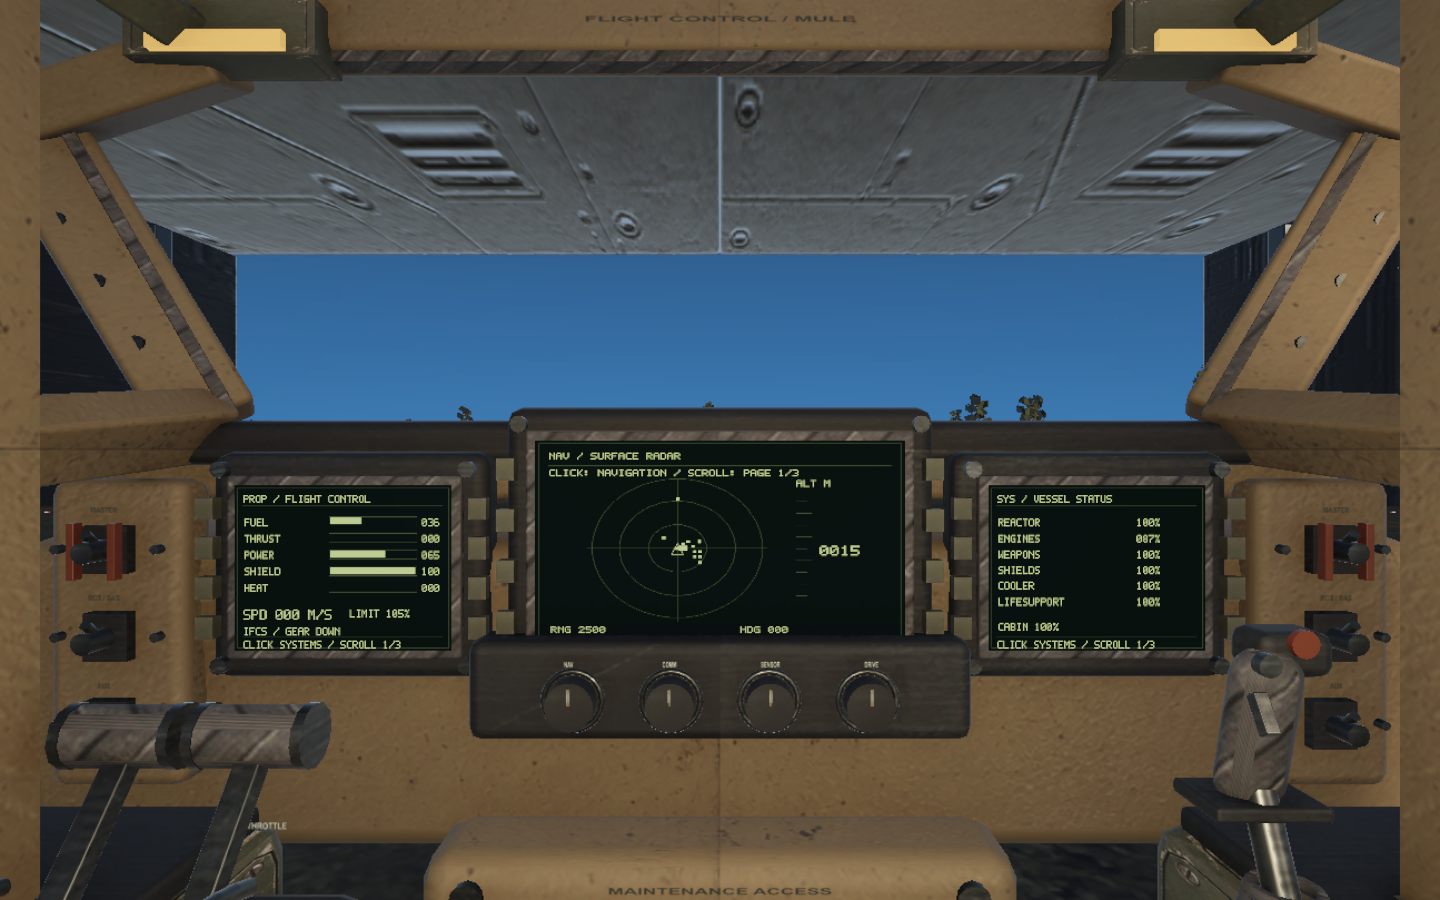
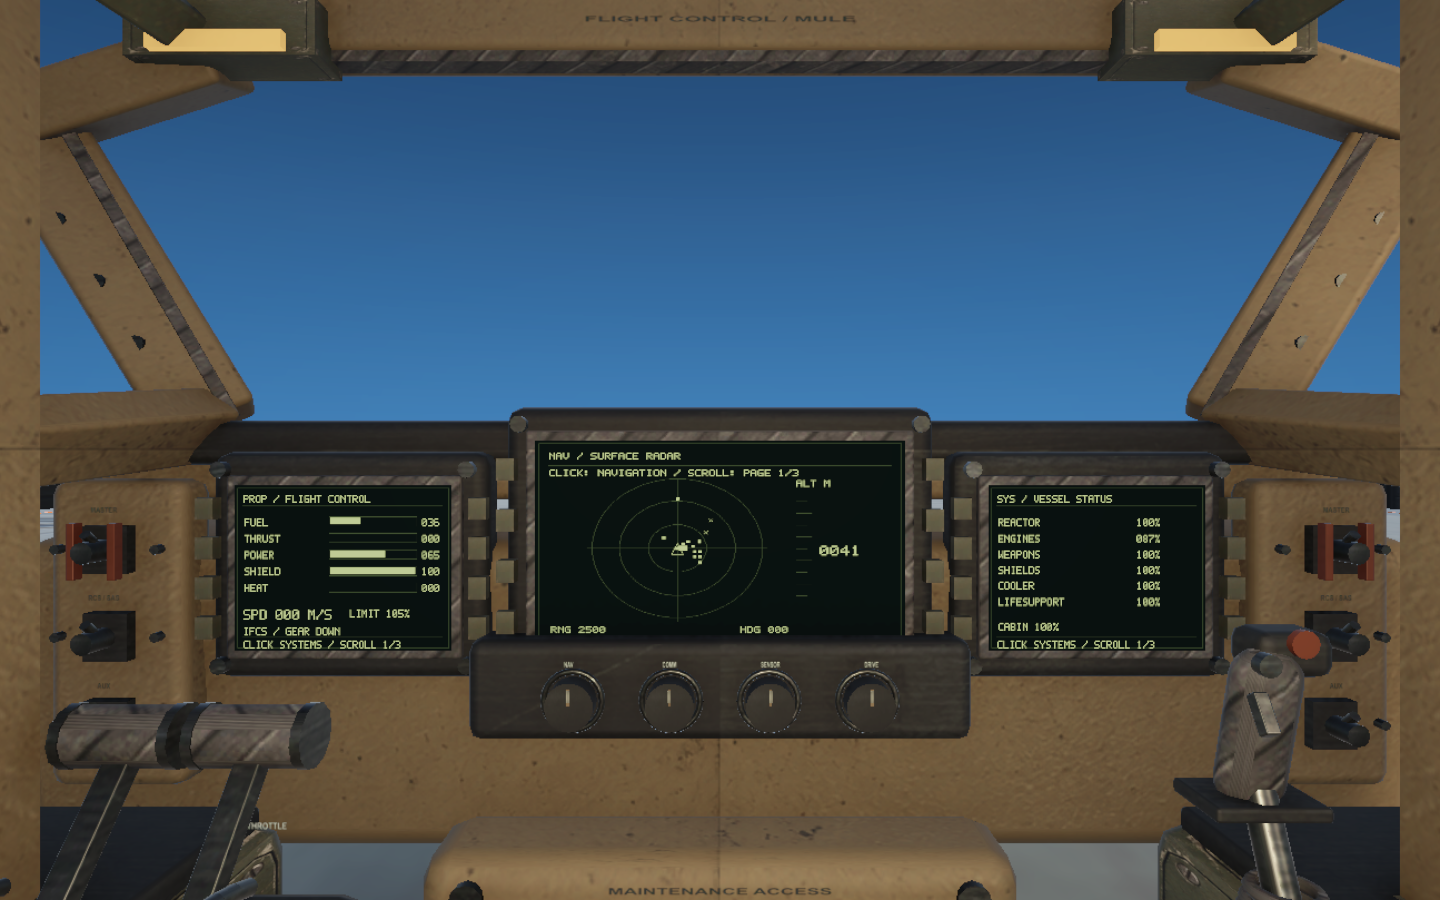
Correct Tripo axis and bake targets; document creature rejection
Normalize generated Y-up GLB geometry before Blender review, select each bake target explicitly, and preserve symmetry-checked concept views. Document why the one-view mesh cannot enter the game. Confirm the cockpit overhead is the functioning Port 07 roof and capture controls with it open.

diff --git a/Tools/AssetPipeline/creatures/prepare_tripo_asset.py b/Tools/AssetPipeline/creatures/prepare_tripo_asset.py
@@ -2,9 +2,10 @@
 
 Run: blender --background --python prepare_tripo_asset.py -- input.glb output_dir stable-id fauna 2.0 +x
 Arguments: source, output directory, stable ID, category (weapon/flora/fauna/geology), target height in metres,
-           source forward axis (+x, -x, +y, -y, +z, -z).
+           source horizontal forward axis (+x, -x, +z, -z), optional pivot fraction and #RRGGBB fallback color.
+Source asset convention: +Y up. Blender's importer converts it to +Z up; the normalizer restores +Y up.
 """
-import bpy, json, math, os, sys
+import bpy, json, math, os, re, sys
 from mathutils import Vector, Quaternion, Matrix
 
 args=sys.argv[sys.argv.index('--')+1:] if '--' in sys.argv else []
@@ -14,6 +15,12 @@ if category not in ('weapon','flora','fauna','geology'):raise SystemExit('Catego
 target_height=float(args[4]) if len(args)>4 else 2.0
 source_forward=args[5] if len(args)>5 else '+x'
 pivot_fraction=tuple(float(v) for v in args[6].split(',')) if len(args)>6 else ((.5,.28,.62) if category=='weapon' else (.5,0,.5))
+source_color_hex=args[7] if len(args)>7 else '#827d6e'
+if not re.fullmatch(r'#[0-9a-fA-F]{6}',source_color_hex):raise SystemExit('Base color must be #RRGGBB.')
+def srgb_to_linear(channel):
+    value=channel/255
+    return value/12.92 if value<=.04045 else ((value+.055)/1.055)**2.4
+source_color=tuple(srgb_to_linear(int(source_color_hex[i:i+2],16)) for i in (1,3,5))
 if len(pivot_fraction)!=3 or any(v<0 or v>1 for v in pivot_fraction):raise SystemExit('Pivot fractions must be three values in [0,1].')
 source=os.path.abspath(source);out_dir=os.path.abspath(out_dir)
 if not os.path.isfile(source): raise SystemExit('Input model not found: '+source)
@@ -37,9 +44,15 @@ if not meshes:raise SystemExit('Input contains no mesh objects.')
 root=bpy.data.objects.new(species+' / normalized import',None);bpy.context.scene.collection.objects.link(root)
 for obj in objects:
     world=obj.matrix_world.copy();obj.parent=root;obj.matrix_parent_inverse=root.matrix_world.inverted();obj.matrix_world=world
-axis={' +x':(1,0,0),'+x':(1,0,0),'-x':(-1,0,0),'+y':(0,1,0),'-y':(0,-1,0),'+z':(0,0,1),'-z':(0,0,-1)}
-if source_forward not in axis:raise SystemExit('Forward axis must be +x, -x, +y, -y, +z or -z.')
-direction=Vector(axis[source_forward]);root.rotation_mode='QUATERNION';root.rotation_quaternion=direction.rotation_difference(Vector((0,0,1)))
+axis={'+x':(1,0,0),'-x':(-1,0,0),'+z':(0,0,1),'-z':(0,0,-1)}
+if source_forward not in axis:raise SystemExit('For +Y-up source models, forward axis must be horizontal: +x, -x, +z or -z.')
+# glTF/FBX sources use +Y up; Blender imports them into its +Z-up world.
+# Restore the source's upright basis *before* yawing its horizontal forward
+# into the game's +Z. The old yaw-only transform stood this creature on its
+# nose because its imported Blender Y axis was actually its source depth.
+upright=Quaternion((1,0,0),-math.pi/2)
+direction=Vector(axis[source_forward]);root.rotation_mode='QUATERNION'
+root.rotation_quaternion=direction.rotation_difference(Vector((0,0,1))) @ upright
 bpy.context.view_layer.update()
 def bounds():
     points=[obj.matrix_world@Vector(corner) for obj in meshes for corner in obj.bound_box]
@@ -47,10 +60,24 @@ def bounds():
     return lo,hi
 lo,hi=bounds();height=max(.001,hi.y-lo.y);root.scale=Vector((target_height/height,)*3);bpy.context.view_layer.update();lo,hi=bounds();extent=hi-lo;pivot=Vector((lo.x+extent.x*pivot_fraction[0],lo.y+extent.y*pivot_fraction[1],lo.z+extent.z*pivot_fraction[2]));root.location=-pivot;bpy.context.view_layer.update()
 for obj in objects:obj.name=species+' / '+obj.name[:48]
+untextured_objects=[]
+for obj in meshes:
+    if any(mat is not None for mat in obj.data.materials):continue
+    # Local TripoSG generates geometry only. Give it an explicit neutral source
+    # material so the Blender bake is real and reports no invented detail.
+    material=bpy.data.materials.new(species+' / untextured source')
+    material.use_nodes=True
+    bsdf=material.node_tree.nodes.get('Principled BSDF')
+    bsdf.inputs['Base Color'].default_value=(*source_color,1)
+    bsdf.inputs['Roughness'].default_value=.78
+    obj.data.materials.clear()
+    obj.data.materials.append(material)
+    untextured_objects.append(obj.name)
 for obj in meshes:
     if len(obj.data.uv_layers)==0:obj.data.uv_layers.new(name='UVMap_Source')
     uv=obj.data.uv_layers.get('SP_BakeUV') or obj.data.uv_layers.new(name='SP_BakeUV')
     obj.data.uv_layers.active=uv
+    uv.active_render=True
 
 # Unwrap all visible meshes in multi-object edit mode, then globally repack to
 # remove Tripo UV overlap. The view cameras below never define texture UVs.
@@ -67,7 +94,11 @@ scene.render.image_settings.file_format='PNG';scene.render.film_transparent=Fals
 for obj in bpy.context.selected_objects:obj.select_set(False)
 # Existing imported materials/textures become one stable base-color bake.
 def bake_image(name,size=2048):
-    im=bpy.data.images.new(name,width=size,height=size,alpha=True,float_buffer=False);im.generated_type='BLANK';im.generated_color=(0,0,0,0);im.filepath_raw=os.path.join(bakes,name+'.png');im.file_format='PNG';return im
+    im=bpy.data.images.new(name,width=size,height=size,alpha=True,float_buffer=False);im.generated_type='BLANK'
+    # Cycles' normal/AO bake writes RGB but retains a generated image's alpha.
+    # Transparent initialization made those saved maps completely invisible.
+    im.generated_color={'basecolor':(0,0,0,0),'normal-tangent':(.5,.5,1,1),'ambient-occlusion':(1,1,1,1)}[name]
+    im.filepath_raw=os.path.join(bakes,name+'.png');im.file_format='PNG';return im
 images={name:bake_image(name) for name in ('basecolor','normal-tangent','ambient-occlusion')}
 def set_bake_target(img):
     for obj in meshes:
@@ -82,8 +113,12 @@ def set_bake_target(img):
     bpy.context.view_layer.objects.active=meshes[0]
 scene.render.bake.margin=16;scene.render.bake.use_pass_direct=False;scene.render.bake.use_pass_indirect=False;scene.render.bake.use_pass_color=True
 set_bake_target(images['basecolor']);scene.cycles.bake_type='DIFFUSE';bpy.ops.object.bake(type='DIFFUSE',pass_filter={'COLOR'})
-images['basecolor'].save();scene.cycles.bake_type='NORMAL';bpy.ops.object.bake(type='NORMAL',normal_space='TANGENT');images['normal-tangent'].save()
-scene.cycles.bake_type='AO';bpy.ops.object.bake(type='AO');images['ambient-occlusion'].save()
+print('SP_BAKE_STATE basecolor',images['basecolor'].is_dirty,flush=True)
+images['basecolor'].save();set_bake_target(images['normal-tangent']);scene.cycles.bake_type='NORMAL';bpy.ops.object.bake(type='NORMAL',normal_space='TANGENT')
+print('SP_BAKE_STATE normal-tangent',images['normal-tangent'].is_dirty,flush=True)
+images['normal-tangent'].save();set_bake_target(images['ambient-occlusion']);scene.cycles.bake_type='AO';bpy.ops.object.bake(type='AO')
+print('SP_BAKE_STATE ambient-occlusion',images['ambient-occlusion'].is_dirty,flush=True)
+images['ambient-occlusion'].save()
 for img in images.values():img.pack()
 # Bind the baked base color and tangent normal to the exported Unity material;
 # AO remains a separate map and is listed explicitly in the layout manifest.
@@ -104,13 +139,20 @@ def aim(obj,target):obj.rotation_euler=(Vector(target)-obj.location).to_track_qu
 for name,loc,up in [('key',(5,7,7),(0,0,1)),('fill',(-6,4,2),(0,0,1)),('rim',(2,5,-6),(0,0,1))]:
     ld=bpy.data.lights.new(name,'AREA');ld.energy=1250 if name=='key' else 780;ld.shape='DISK';ld.size=5;lo_obj=bpy.data.objects.new(name,ld);scene.collection.objects.link(lo_obj);lo_obj.location=loc;aim(lo_obj,(0,target_height*.48,0))
 if category in ('flora','fauna','geology'):
-    bpy.ops.mesh.primitive_plane_add(size=max(24,target_height*12),location=(0,.006,0));floor=bpy.context.object;floor.name='SP review-only neutral ground';floor_mat=bpy.data.materials.new('SP review ground');floor_mat.diffuse_color=(.16,.18,.18,1);floor_mat.use_nodes=True;floor_mat.node_tree.nodes['Principled BSDF'].inputs['Base Color'].default_value=(.16,.18,.18,1);floor_mat.node_tree.nodes['Principled BSDF'].inputs['Roughness'].default_value=.88;floor.data.materials.append(floor_mat)
+    bpy.ops.mesh.primitive_plane_add(size=max(24,target_height*12),location=(0,-.006,0),rotation=(-math.pi/2,0,0));floor=bpy.context.object;floor.name='SP review-only neutral ground';floor_mat=bpy.data.materials.new('SP review ground');floor_mat.diffuse_color=(.16,.18,.18,1);floor_mat.use_nodes=True;floor_mat.node_tree.nodes['Principled BSDF'].inputs['Base Color'].default_value=(.16,.18,.18,1);floor_mat.node_tree.nodes['Principled BSDF'].inputs['Roughness'].default_value=.88;floor.data.materials.append(floor_mat)
 cam_data=bpy.data.cameras.new('SP orthographic review');cam=bpy.data.objects.new('SP orthographic review',cam_data);scene.collection.objects.link(cam);scene.camera=cam;cam_data.type='ORTHO';cam_data.ortho_scale=max(target_height*1.5,3)
 view_specs={'front':((0,.5,8),(0,1,0)),'back':((0,.5,-8),(0,1,0)),'left':((-8,.5,0),(0,1,0)),'right':((8,.5,0),(0,1,0)),'top':((0,8,0),(0,0,1)),'three-quarter':((6,4.2,7),(0,1,0))}
 view_report={}
 for name,(pos,up) in view_specs.items():
-    cam.location=Vector(pos)*max(1,target_height/2);cam.data.ortho_scale=max(target_height*1.35,2.5);cam.data.lens=52;cam.data.dof.use_dof=False
-    cam.rotation_euler=(Vector((0,target_height*.5,0))-cam.location).to_track_quat('-Z','Y').to_euler();scene.render.filepath=os.path.join(review,name+'.png');bpy.ops.render.render(write_still=True)
+    target=Vector((0,target_height*.5,0));cam.location=target+(Vector(pos)-Vector((0,.5,0)))*max(1,target_height/2);cam.data.lens=52;cam.data.dof.use_dof=False
+    forward=(target-cam.location).normalized();right=forward.cross(Vector(up)).normalized();camera_up=right.cross(forward).normalized()
+    cam.rotation_euler=Matrix((right,camera_up,-forward)).transposed().to_quaternion().to_euler()
+    bpy.context.view_layer.update()
+    camera_corners=[cam.matrix_world.inverted()@(obj.matrix_world@Vector(corner)) for obj in meshes for corner in obj.bound_box]
+    width=max(p.x for p in camera_corners)-min(p.x for p in camera_corners)
+    height=max(p.y for p in camera_corners)-min(p.y for p in camera_corners)
+    cam.data.ortho_scale=max(width*1.15,height*1.15,2.5)
+    scene.render.filepath=os.path.join(review,name+'.png');bpy.ops.render.render(write_still=True)
     view_report[name]={'camera':[float(v) for v in cam.location],'target':[0,target_height*.5,0],'up':list(up),'projection':'orthographic'}
 
 # Record actual UV extents for review and bake reproducibility.
@@ -118,9 +160,16 @@ uv_report=[]
 for obj in meshes:
     layer=obj.data.uv_layers.get('SP_BakeUV');coords=[(float(d.uv.x),float(d.uv.y)) for d in layer.data] if layer else []
     uv_report.append({'object':obj.name,'mesh':obj.data.name,'uvMap':'SP_BakeUV','uvBounds':[min(x for x,y in coords),min(y for x,y in coords),max(x for x,y in coords),max(y for x,y in coords)] if coords else None,'vertices':len(obj.data.vertices),'triangles':sum(len(p.vertices)-2 for p in obj.data.polygons)})
-lo,hi=bounds();layout={'schema':'space-patriot-bake-layout','version':1,'assetId':species,'category':category,'source':os.path.basename(source),'units':'metres','origin':'pivot-point','pivotFraction':list(pivot_fraction),'up':'+Y','forward':'+Z','targetHeight':target_height,'viewCoordinates':view_report,'uvMap':'SP_BakeUV','resolution':2048,'paddingPixels':16,'uvCoordinatesAreIndependentOfViews':True,'images':{k:os.path.relpath(v.filepath_raw,out_dir).replace('\\','/') for k,v in images.items()},'objects':uv_report,'bounds':{'min':list(lo),'max':list(hi)}}
+lo,hi=bounds();layout={'schema':'space-patriot-bake-layout','version':1,'assetId':species,'category':category,'source':os.path.basename(source),'sourceUp':'+Y','sourceForward':source_forward,'blenderImportUp':'+Z','importToCanonical':'-90deg around Blender X, then horizontal yaw to +Z','units':'metres','origin':'pivot-point','pivotFraction':list(pivot_fraction),'up':'+Y','forward':'+Z','targetHeight':target_height,'viewCoordinates':view_report,'uvMap':'SP_BakeUV','resolution':2048,'paddingPixels':16,'uvCoordinatesAreIndependentOfViews':True,'images':{k:os.path.relpath(v.filepath_raw,out_dir).replace('\\','/') for k,v in images.items()},'objects':uv_report,'bounds':{'min':list(lo),'max':list(hi)},'untexturedSourceObjects':untextured_objects,'sourceBaseColor':source_color_hex,'sourceMaterialNote':'Untextured TripoSG geometry receives flat authored base color; baked color contains no concept-detail projection' if untextured_objects else 'Original imported source materials baked'}
 with open(os.path.join(out_dir,'bake-layout.json'),'w',encoding='utf-8') as f:json.dump(layout,f,indent=2)
 bpy.ops.wm.save_as_mainfile(filepath=os.path.join(out_dir,species+'.blend'))
+# Unity consumes the first exported UV layer as UV0. Keep the incoming UVs in
+# the editable .blend, then export only the validated bake map as UV0.
+for obj in meshes:
+    for layer in list(obj.data.uv_layers):
+        if layer.name!='SP_BakeUV':obj.data.uv_layers.remove(layer)
+    obj.data.uv_layers.active_index=0
+    obj.data.uv_layers[0].active_render=True
 bpy.ops.object.select_all(action='DESELECT')
 for obj in objects:obj.select_set(True)
 bpy.context.view_layer.objects.active=meshes[0]

diff --git a/ArtDirection/PIPELINE_STANDARD.md b/ArtDirection/PIPELINE_STANDARD.md
@@ -14,13 +14,13 @@ Put the returned `.glb` or `.fbx` beside the concept folder and run from the pro
 
 ```powershell
 blender --background --python Tools/AssetPipeline/creatures/prepare_tripo_asset.py -- `
-  ArtDirection/Production/Tripo/earth-wild-01.glb `
-  ArtDirection/Production/Tripo/earth-wild-01 earth-wild-01 fauna 2.0 +x
+  ArtDirection/Production/Tripo/earth-wild-01/raw.glb `
+  ArtDirection/Production/Tripo/earth-wild-01/prepared-review earth-wild-01 fauna 2.0 +x 0.5,0,0.5 '#687651'
 ```
 
-The arguments after `--` are source model, output folder, stable ID, category, target height in metres, and the model's source forward axis. The final optional argument sets the pivot as normalized `x,y,z` fractions inside the aligned model bounds. Omit it for ground-centred categories; weapons default to a grip/mount fraction and should be reviewed per model. For a weapon, pass its actual grip or mount point fraction after checking the six renders.
+The arguments after `--` are source model, output folder, stable ID, category, target height in metres, and the model's horizontal source-forward axis (`+x`, `-x`, `+z`, or `-z`). Source models use `+Y` up. Blender's glTF importer changes that to Blender `+Z` up, so the script restores `+Y` up before turning the forward axis to game `+Z`. Verify the source axis from model bounds and a side view; an incorrect axis can make all six bake reviews appear valid while standing the asset on its nose. The next optional argument sets the pivot as normalized `x,y,z` fractions inside aligned bounds. The last optional argument sets a flat sRGB `#RRGGBB` fallback color for untextured geometry; the script converts it to Blender linear input before baking, and it does not manufacture concept-art detail. Omit the pivot for ground-centred categories; weapons default to a grip/mount fraction and should be reviewed per model.
 
-The Blender run outputs a review render for each canonical view, `basecolor.png`, `normal-tangent.png`, `ambient-occlusion.png`, a `.blend` source file, a Unity-ready `.fbx`, and `bake-layout.json` with the final object bounds, camera transforms, UV bounds per mesh, atlas name, size, and padding. It preserves the source UV layer and writes the bake layout to a new UV layer, so the view grid and the bake coordinates stay independent. Bake margin is 16 pixels at 2048². Fix topology or UV failures in Blender, rerun, and compare the six matched reference views before import.
+The Blender run outputs a review render for each canonical view, `basecolor.png`, `normal-tangent.png`, `ambient-occlusion.png`, a `.blend` source file, an `.fbx` draft, and `bake-layout.json` with the final object bounds, axis conversion, camera transforms, UV bounds per mesh, atlas name, size, and padding. It preserves the source UV layer in Blender and exports only `SP_BakeUV` as UV0 for Unity. The view grid and bake coordinates stay independent. Bake margin is 16 pixels at 2048². Check the normal and AO PNG alpha as well as RGB; a bake command returning success does not prove that the saved map contains visible pixels. Fix topology or UV failures in Blender, rerun, and compare the six matched reference views before import.
 
 Compare approved views and Blender output with overlays and per-view pixel error:
 

diff --git a/ArtDirection/Production/Tripo/earth-wild-01/REVIEW.md b/ArtDirection/Production/Tripo/earth-wild-01/REVIEW.md
@@ -1,0 +1,18 @@
+# earth-wild-01 local mesh review — rejected draft
+
+The concept image `ArtDirection/Production/ConceptViews/earth-wild-01/left-master-v1.png` is a useful side-view brief. The one-view local TripoSG mesh in `raw.glb` is **not approved for Unity**. The art standard requires six approved, matching concept views; this trial began from only the left image.
+
+## Axis and bake correction
+
+The generated glTF has `+Y` up and `+X` forward. Blender's glTF importer changes it to Blender `+Z` up. The preparation script now restores `+Y` up before yawing `+X` forward to canonical `+Z`, and it puts the review floor in the canonical `XZ` plane. In `prepared-v5/bake-layout.json`, the corrected metres bounds are `X=[-0.561115, +0.561115]`, `Y=[0, 1.759299]`, `Z=[-1.131896, +1.131897]`. The six v5 orthographic views confirm an upright four-legged stance and forward-facing muzzle.
+
+The script now selects the intended image node separately for base-color, tangent-normal, and AO baking. In v6 all three bake calls dirty their own image. The saved AO atlas has 244 grayscale values in a 1/16-pixel-grid sample, compared with the previous all-white output. The tangent-normal atlas is uniformly neutral `(128,128,255)` because this untextured low-poly mesh was baked against itself; it contains no sculpted high-frequency detail. Base color is a declared flat `#687651` fallback, not texture projected from the concept. Its sRGB channels now bake to `(103,117,80)` on a covered atlas pixel, within one byte of the requested `(104,118,81)`; the previous linear-input mistake baked it too pale. The UV layer is newly packed as `SP_BakeUV` and exported as FBX UV0.
+
+## Why the draft is rejected
+
+- `raw.glb` contains 590,227 vertices and 1,180,116 triangles; it is not watertight and has 986 open boundary edges in Blender.
+- Reflection about the lateral centre plane gives a median nearest-vertex mismatch of **14.5% of body width**, with 95th percentile **32.3%**. Only **13.2%** of sampled vertices have a reflected partner within 3% of body width.
+- Using a light-foreground threshold of 150 on the saved 1024-pixel neutral-color v5 review PNGs, silhouette mirror IoU is **0.362 front**, **0.405 back**, and **0.446 top**. The left side versus reflected right side is **0.616**. V6 has the same geometry and a corrected darker base color; the front head, dorsal plates, and foot placements visibly drift off centre.
+- A 30%-face-count prototype kept the canonical negative-X half and used Blender Symmetrize across `X=0`. Its X bounds became exactly `±0.561141 m`, but it had **1,350 open boundary edges** after mirroring. Symmetry alone did not repair the topology. This prototype was not baked or imported.
+
+Next pass: approve a symmetrical front and back, paired left/right, top and three-quarter concept sheet with matching body proportions; regenerate from the multiview inputs; then fix mesh integrity before UV/bake review. Do not register this one-view mesh as a creature in Unity.

diff --git a/PORT_STATUS.md b/PORT_STATUS.md
@@ -6,7 +6,7 @@ The direction remains grounded industrial science fiction, a Unity project targe
 
 Latest verified work (26 September): grass, forest and Gaussian foliage now share spherical cells, global climate sampling, radial roots and planet-relative orientation. The 2.7 km port cap is removed. Actual Unity checks passed at equatorial and southern sites on Earth and TRAPPIST-1 e, including revisits, seams, world switches, transformed planets and altitude gates. Near grass retains at most nine tiles/108,000 blades; full trees are capped at 2,000; distant splat layers are also bounded and culled. [Results and captures](ArtDirection/spherical-vegetation-results.md) document the remaining synchronous cell-selection cost. A subsequent [radial-sky pass](ArtDirection/radial-sky-results.md) replaced the fixed world-Y horizon; twelve live GPU captures cover multiple latitudes and ascent. Terrain LOD, cloud and lighting transitions still need work.
 
-Cockpit physical-display clicks now open their corresponding menus, and rotary changes reveal the affected page. [31 live raycast checks](Validation/cockpit-mfd-menu-runtime.txt) passed; screen glyphs were enlarged and footer hints shortened for readability. The cockpit model still needs work, including a gray upper area seen in the capture whose source has not yet been identified.
+Cockpit physical-display clicks now open their corresponding menus, and rotary changes reveal the affected page. [31 live raycast checks](Validation/cockpit-mfd-menu-runtime.txt) passed; screen glyphs were enlarged and footer hints shortened for readability. The gray upper area in the parked capture was identified as the functional [Port 07 hangar roof](ArtDirection/COCKPIT_ROOF_VISIBILITY.md): it retracts with the launch lift. With the roof open, all 31 controls still pass, though the view lacks the distant port composition of the concept art.
 
 The original standalone Grassworks demo's fireflies now use bounded circular yellow-green sprites, near-camera fading and independent pulses. [Eight actual browser GPU checks](Validation/grassworks-firefly-gpu.json) passed, including 120 overlapping insects without white pixels. This is a fix to the original engine demo; it is not a claim that native Unity fireflies are implemented.
 

diff --git a/ArtDirection/Production/ConceptViews/earth-wild-01/VIEW_MANIFEST.md b/ArtDirection/Production/ConceptViews/earth-wild-01/VIEW_MANIFEST.md
@@ -1,0 +1,18 @@
+# Earth wild 01 — Mossback concept views
+
+Status: **silhouette references only**. These generated images are not measured, mutually registered orthographic plates and must not be projected directly into UVs.
+
+| View | File | Use |
+| --- | --- | --- |
+| Left | `left-master-v1.png` | Original shape and palette master; nose points right. |
+| Front | `front-v1.png` | Bilateral anatomy and front silhouette. |
+| Back | `back-v1.png` | Bilateral anatomy, tail, and rear silhouette. |
+| Top | `top-v1.png` | Dorsal silhouette; nose points up, tail down. |
+| Right | `right-v2.png` | Preferred visual counterpart to left; shape study only. |
+| Right alternate | `right-v1.png` | Rejected as less aligned to left. |
+
+For reference coordinates, use **+Y up** and **+Z forward**, with the midline at **X=0**. Do not infer a mesh up axis from page orientation alone; the source GLB import and Blender transform must be checked separately.
+
+Read-only silhouette check: mark pixels where the minimum RGB channel is below 0.82 and calculate intersection-over-union with the horizontally reflected silhouette at the same 1536×1024 canvas size. Front: **0.9978**; back: **0.9885**; top: **0.9970**. The mirrored left/right pair has **0.8776** IoU with `right-v2.png` and **0.8226** with `right-v1.png`. These are visual symmetry checks, not proof of matching internal features, scale, camera, or texture coordinates.
+
+The references were produced with the built-in image-generation tool. Generated details vary across views. For production bakes, use the actual approved geometry, verified camera matrices, and its final UV layout; do not substitute these images as color-projection bakes.

diff --git a/ArtDirection/COCKPIT_ROOF_VISIBILITY.md b/ArtDirection/COCKPIT_ROOF_VISIBILITY.md
@@ -1,0 +1,7 @@
+# Cockpit windshield: Port 07 roof diagnostic
+
+The broad gray panel in the parked Mule cockpit is the **Port 07 hangar roof**, not part of the cockpit model. A live Unity renderer-ablation check identified `Frontier environment/Earth / frontier/hangar(Clone)/Hangar roof 1` as the surface covering the upper windshield. Disabling cabin renderers did not affect it because those meshes belong to the ship, while the roof belongs to the world.
+
+The roof is part of the launch sequence in `HangarLift.Advance`: the paired slabs slide sideways as the platform rises 26 m. Removing those meshes or changing the spawn position would break the covered berth. The parked view is recorded in `Validation/cockpit-roof-closed.png`. The same live scene after advancing the functional lift to its fully open state is recorded in `Validation/cockpit-roof-open.png` and `Validation/cockpit-mfd-menu-cockpit.png`; the windshield is clear.
+
+The 31 physical screen, softkey, and rotary-control checks in `Validation/cockpit-mfd-menu-runtime.txt` passed while the lift was open. The validation restored the lift, ship, and landing pad state afterward. The open view still has a large area of plain sky and lacks the distant port composition of the cockpit target image; that is a separate environment/framing art task.
